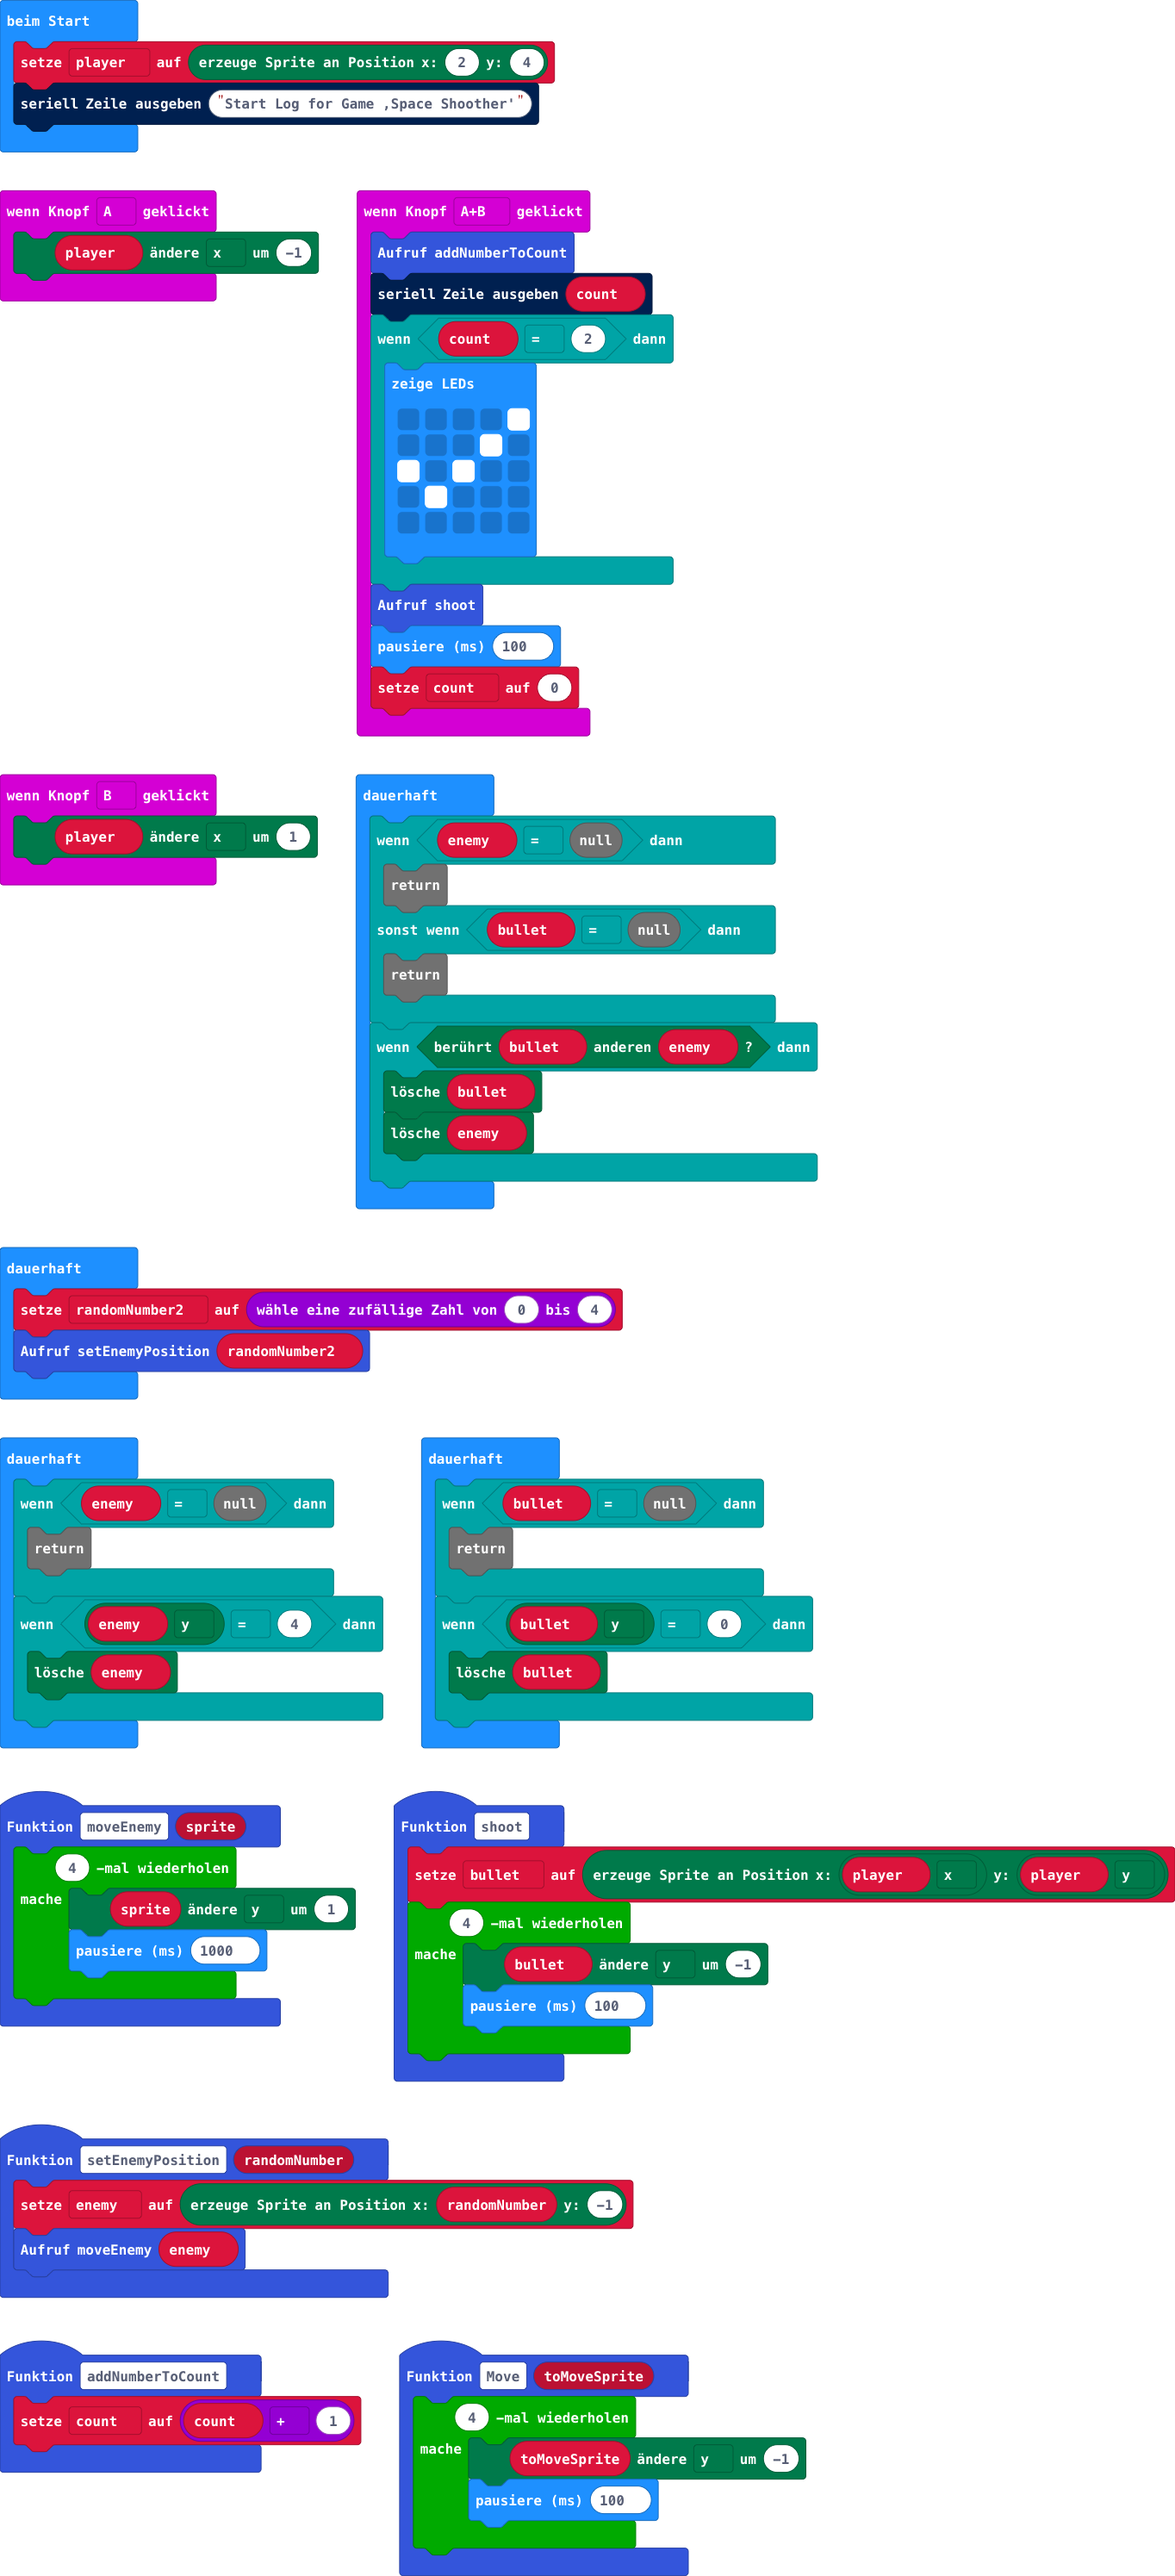
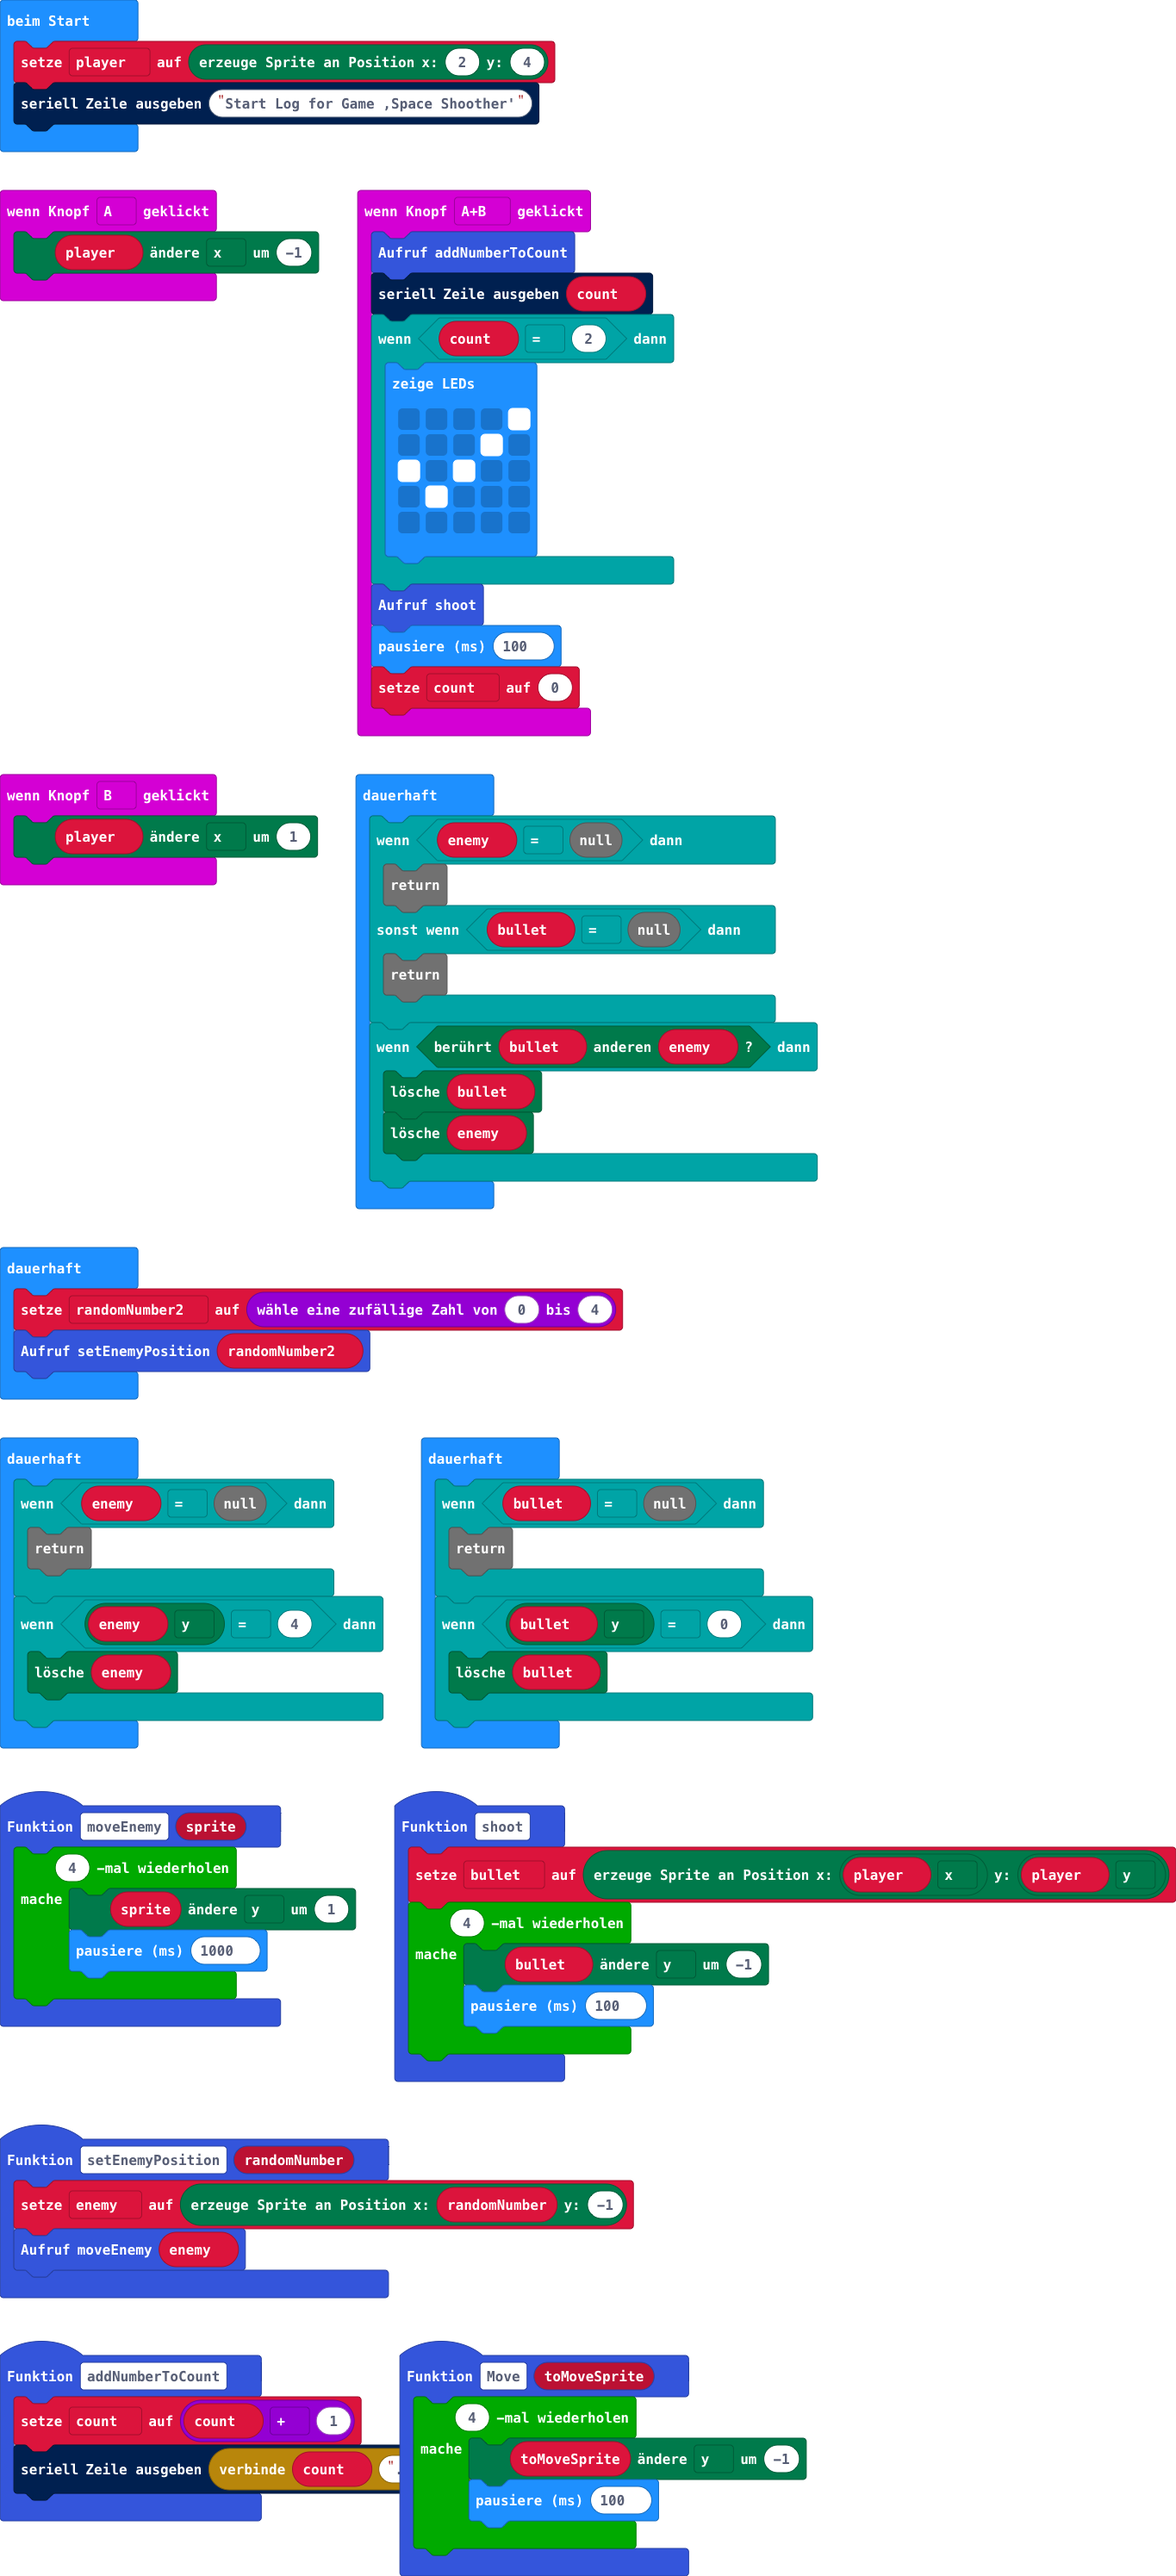
Aktualisiere main.blocks, main.ts

diff --git a/main.ts b/main.ts
@@ -16,6 +16,7 @@ function shoot () {
 }
 function addNumberToCount () {
     count = count + 1
+    serial.writeLine("" + count + ".")
 }
 input.onButtonPressed(Button.AB, function () {
     addNumberToCount()
